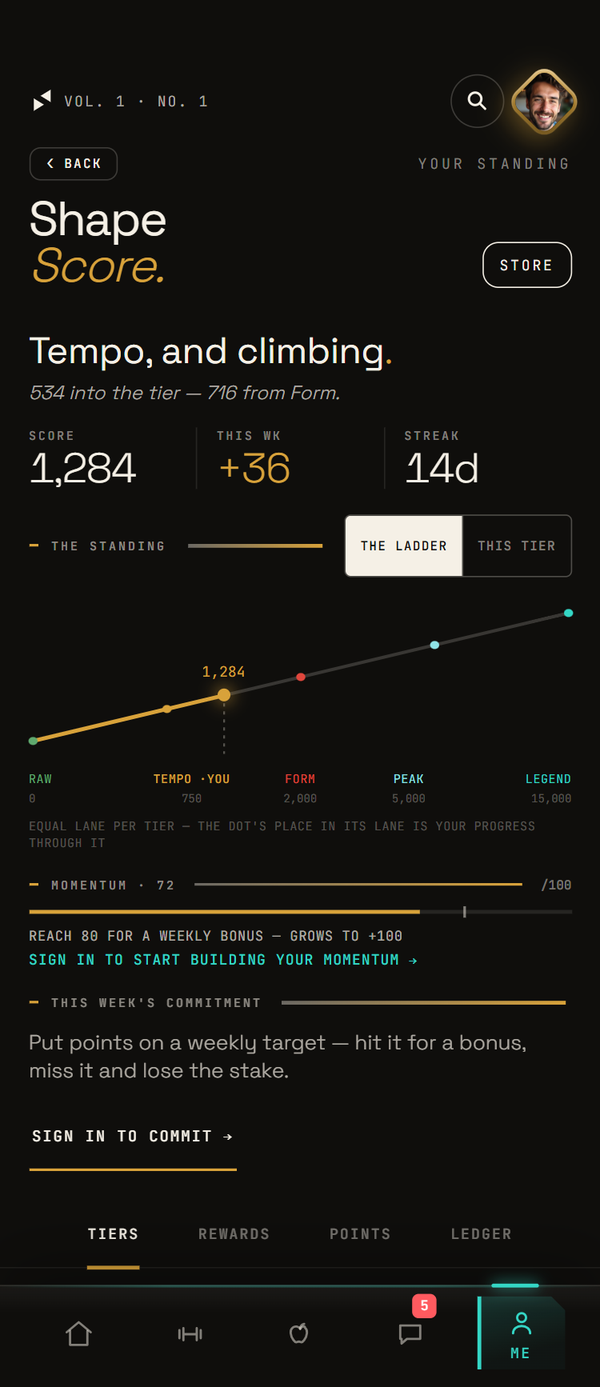
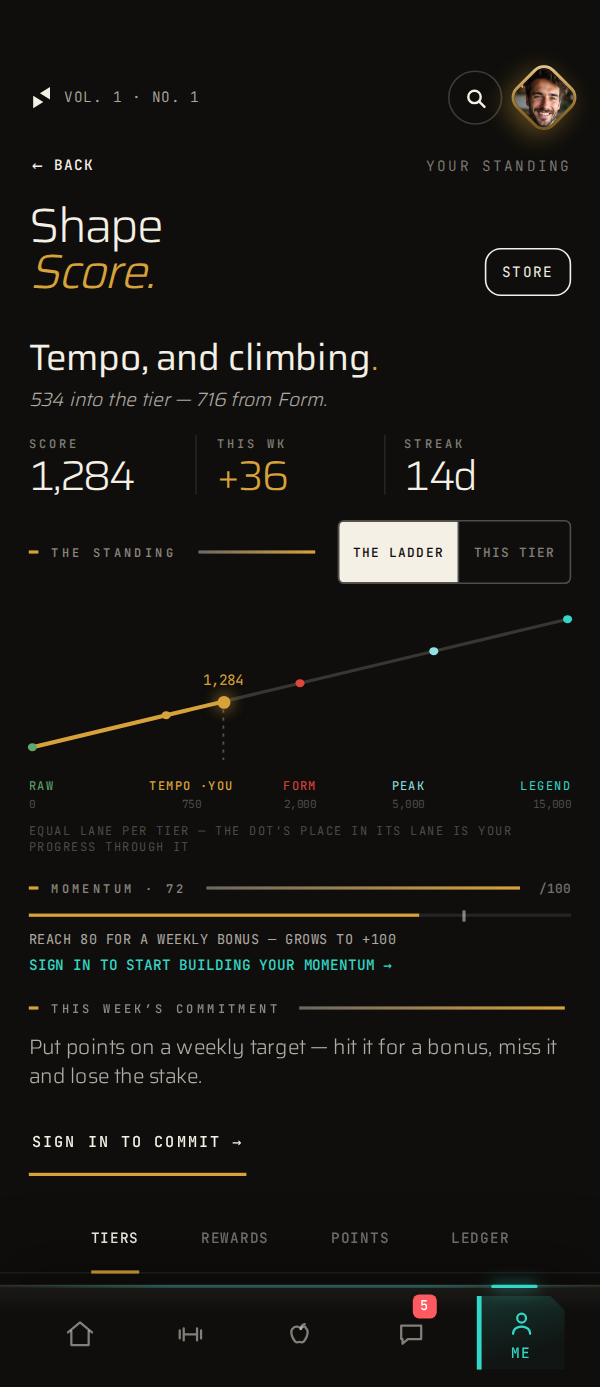
newdesign: refresh the nine app screenshots to the app as built today
The screens the website shows for the app were captured on 2026-07-10/15.
Since then the app shipped the Home masthead dateline, the feed's online
rail Hide control and typed-reaction bar, the profile's cover photo and
"training for" line, the grocery list's collapsed aisles and action bar,
and a sign-in-gated radio that reads paused for a visitor. All nine files
are replaced with captures of the current build (same filenames, same
600x1387, ?v=20260910 in index.html and GetApp.html), taken in the
signed-out preview with the clock pinned to a Friday so the example
member is on a strength day like the existing images.

Docs: the review gains the screen-by-screen diff and method, the
Feed/Wall/Team explanation, and the WORKLOG entry for the refresh.

Claude-Session: https://claude.ai/code/session_01Kg4bHnhM6uNHwv4cmM2cej

diff --git a/public/newdesign/GetApp.html b/public/newdesign/GetApp.html
@@ -291,15 +291,15 @@
 <script>
 (function () {
   var STEPS = [
-    { kind: "HOME",     title: "Today, at a glance.",         body: "The Shape Daily — calendar, calorie ledger, what's left to log, who's on the air. Skim it in five seconds, dive in if you want.", img: "/newdesign/getapp-home-v5.png?v=20260715", dark: true },
-    { kind: "TRAIN",    title: "Know what's coming.",          body: "Every move, set, and cue from your trainer — before you walk into the gym. Tap a move for video, note warmups, mark a substitute. No coach yet? Build your own week — starter templates and custom programs, coach optional.", img: "/newdesign/getapp-train-v3.png?v=20260710", dark: false },
-    { kind: "EAT",      title: "Macros, tallied live.",        body: "Daily meal plans from your nutritionist. The day's deficit (or surplus) ticks as you log. Swaps for travel days built in.", img: "/newdesign/getapp-nutri-v3.png?v=20260710", dark: false },
-    { kind: "GROCERY",  title: "List that builds itself.",     body: "Organized by aisle with a live running cost. Coach swaps land inline. One tap to send the whole list to Instacart.", img: "/newdesign/getapp-grocery-v2.png?v=20260710", dark: false },
-    { kind: "HABITS",   title: "Small things, tracked.",       body: "Tap to log. Earn Shape Score for every check. Pick friends to be notified when you miss — accountability without the guilt trip.", img: "/newdesign/getapp-habits-v1.png?v=20260710", dark: true },
-    { kind: "SCORE",    title: "One number that matters.",     body: "A five-tier ladder rewarding consistency across training, nutrition, and recovery. It only moves when you show up.", img: "/newdesign/getapp-score-v3.png?v=20260710", dark: true },
-    { kind: "PROFILE",  title: "A profile that's alive.",      body: "Your climb, your Shape Score, PRs and playlists — a living page that grows as you do. Make it public or keep it private; it's yours.", img: "/newdesign/getapp-profile-v2.png?v=20260710", dark: true },
-    { kind: "RADIO",    title: "Music built for movement.",    body: "Live mixes curated by your coach. Each track's BPM syncs with your wearable — when the two lock in, your pace becomes the song.", img: "/newdesign/getapp-radio-v3.png?v=20260710", dark: true },
-    { kind: "COMMUNITY", title: "The social side of strong.",   body: "See who's training now, cheer a friend's PR, and post your own. A live feed, member channels, and coach co-signs turn solo workouts into a community — the energy of a gym floor, wherever you train.", img: "/newdesign/getapp-community-v2.png?v=20260710", dark: false }
+    { kind: "HOME",     title: "Today, at a glance.",         body: "The Shape Daily — calendar, calorie ledger, what's left to log, who's on the air. Skim it in five seconds, dive in if you want.", img: "/newdesign/getapp-home-v5.png?v=20260910", dark: true },
+    { kind: "TRAIN",    title: "Know what's coming.",          body: "Every move, set, and cue from your trainer — before you walk into the gym. Tap a move for video, note warmups, mark a substitute. No coach yet? Build your own week — starter templates and custom programs, coach optional.", img: "/newdesign/getapp-train-v3.png?v=20260910", dark: false },
+    { kind: "EAT",      title: "Macros, tallied live.",        body: "Daily meal plans from your nutritionist. The day's deficit (or surplus) ticks as you log. Swaps for travel days built in.", img: "/newdesign/getapp-nutri-v3.png?v=20260910", dark: false },
+    { kind: "GROCERY",  title: "List that builds itself.",     body: "Organized by aisle with a live running cost. Coach swaps land inline. One tap to send the whole list to Instacart.", img: "/newdesign/getapp-grocery-v2.png?v=20260910", dark: false },
+    { kind: "HABITS",   title: "Small things, tracked.",       body: "Tap to log. Earn Shape Score for every check. Pick friends to be notified when you miss — accountability without the guilt trip.", img: "/newdesign/getapp-habits-v1.png?v=20260910", dark: true },
+    { kind: "SCORE",    title: "One number that matters.",     body: "A five-tier ladder rewarding consistency across training, nutrition, and recovery. It only moves when you show up.", img: "/newdesign/getapp-score-v3.png?v=20260910", dark: true },
+    { kind: "PROFILE",  title: "A profile that's alive.",      body: "Your climb, your Shape Score, PRs and playlists — a living page that grows as you do. Make it public or keep it private; it's yours.", img: "/newdesign/getapp-profile-v2.png?v=20260910", dark: true },
+    { kind: "RADIO",    title: "Music built for movement.",    body: "Live mixes curated by your coach. Each track's BPM syncs with your wearable — when the two lock in, your pace becomes the song.", img: "/newdesign/getapp-radio-v3.png?v=20260910", dark: true },
+    { kind: "COMMUNITY", title: "The social side of strong.",   body: "See who's training now, cheer a friend's PR, and post your own. A live feed, member channels, and coach co-signs turn solo workouts into a community — the energy of a gym floor, wherever you train.", img: "/newdesign/getapp-community-v2.png?v=20260910", dark: false }
   ];
 
   var i = 0;

diff --git a/public/newdesign/index.html b/public/newdesign/index.html
@@ -775,23 +775,23 @@
   <div class="stage">
     <div class="beat" data-i="0">
       <div><div class="ix">01 — Train</div><h2>Written <b>before</b> you arrive.</h2><p>Every set, tempo and cue from your trainer — loaded the night before. No deciding at the rack, no guesswork. No coach yet? Build your own week — starter templates and custom programs, coach optional.</p></div>
-      <div class="vis dark"><div class="scr"><img class="on" src="/newdesign/getapp-train-v3.png?v=20260710" alt="" /></div></div>
+      <div class="vis dark"><div class="scr"><img class="on" src="/newdesign/getapp-train-v3.png?v=20260910" alt="" /></div></div>
     </div>
     <div class="beat" data-i="1">
       <div><div class="ix">02 — Eat</div><h2>The ledger <b>ticks live.</b></h2><p>Macro plans from your nutritionist. Today's deficit moves as you log. Travel and rest-day swaps already built in.</p></div>
-      <div class="vis dark"><div class="scr"><img class="on" src="/newdesign/getapp-nutri-v3.png?v=20260710" alt="" /></div></div>
+      <div class="vis dark"><div class="scr"><img class="on" src="/newdesign/getapp-nutri-v3.png?v=20260910" alt="" /></div></div>
     </div>
     <div class="beat" data-i="2">
       <div><div class="ix">03 — Recover</div><h2>One number that <b>tells the truth.</b></h2><p>Sleep, stress and Shape Score read every week. Your coach adjusts before you stall — not after.</p></div>
-      <div class="vis dark"><div class="scr"><img class="on" src="/newdesign/getapp-score-v3.png?v=20260710" alt="" /></div></div>
+      <div class="vis dark"><div class="scr"><img class="on" src="/newdesign/getapp-score-v3.png?v=20260910" alt="" /></div></div>
     </div>
     <div class="beat" data-i="3">
       <div><div class="ix">04 — Community</div><h2>The social side of <b>strong.</b></h2><p>See who's training now, cheer a friend's PR, and post your own. A live feed, member channels, and coach co-signs — the energy of a gym floor, wherever you train.</p></div>
-      <div class="vis dark"><div class="scr"><img class="on" src="/newdesign/getapp-community-v2.png?v=20260710" alt="" /></div></div>
+      <div class="vis dark"><div class="scr"><img class="on" src="/newdesign/getapp-community-v2.png?v=20260910" alt="" /></div></div>
     </div>
     <div class="beat" data-i="4">
       <div><div class="ix">05 — Profile</div><h2>A profile that <b>climbs with you.</b></h2><p>Your public page is alive — your climb, your Shape Score, your PRs and playlists. Share it, or keep it private. It's yours.</p></div>
-      <div class="vis dark"><div class="scr"><img class="on" src="/newdesign/getapp-profile-v2.png?v=20260710" alt="" /></div></div>
+      <div class="vis dark"><div class="scr"><img class="on" src="/newdesign/getapp-profile-v2.png?v=20260910" alt="" /></div></div>
     </div>
   </div>
 </div></section>

diff --git a/docs/REVIEW-2026-09-10-index-page.md b/docs/REVIEW-2026-09-10-index-page.md
@@ -389,7 +389,60 @@ preview shows sample plates labelled demo, as the app already does elsewhere. **
 two PRs; no new data is collected. **Order:** the migration and public read first (it also
 serves the homepage), then the segment and the Home card, then the coach Stamp.
 
-## 8. Method notes, limits, renders
+**Feed, Wall, Team: what each one is** (owner: *"what is the difference between wall and feed
+on the app?"* · *"and what about the chat feature for clients, trainers, and nutritionists"*).
+Read from the built app in its signed-out preview, not from memory:
+
+| Surface | Where | What it is | Who talks |
+|---|---|---|---|
+| **Feed** | Chat → Feed | Everything members post, newest first: PRs, long runs, swims, rest days, meals, check-ins, with typed reactions (Beast, Respect, Gliding, Spot), comments and coach co-signs. Filters: Universal / Following, and Shape / Client / Community. The online-now rail sits above it. | everyone public, plus who you follow |
+| **Wall** (proposed) | Chat → Wall | Only records: every public member's new best, from the structured PR ledger, as plates with the number, the delta over their last best, the coach's stamp, reactions; filter by lift; your own best pinned. A board, not a conversation. Today those records exist only as feed posts and as messages in the PR Wall channel. | nobody; you cheer and coaches stamp |
+| **Team** | Chat → Team | The 1:1 threads: **Coaches** (your trainer, your nutritionist, an endurance coach in the demo) and **Friends**, with unread badges. This is the client ↔ trainer / nutritionist chat. Coaches get the mirror of it in their own apps (the same `BSChatThread` code), and a nutritionist also receives a client's meal-log note, photo and voice memo as a message. | you and your coaches, you and friends |
+| **Channels** | Chat → Channels | Group rooms: #Shape HQ, #PR Wall, #strength-block-3, #Sunday Run Club, #Macro Mondays. #PR Wall is the system channel the PR RPC posts into; a Wall surface would read the ledger instead and could retire the channel or leave it as the chat about PRs. | members of the room |
+| **Support** | Chat → Support | The support thread. | you and Shape |
+
+So the Wall does not replace the Feed or the Team threads. The Feed is the conversation, the
+Team tab is the coach chat, the Wall is the record board. The one duplication to decide is
+the PR Wall channel: keep it as the room where people talk about PRs, or fold it into the
+Wall once the Wall ships.
+
+## 8. The app screens on the website, refreshed
+
+Owner: *"make sure the app screens that are showing on website are matching what is actually
+live on the app currently."* Two sets were checked: the nine PNGs the live site shows (five
+in `index.html`'s loop, nine in `GetApp.html`, all captured 2026-07-10/15), and the phones on
+the concept board, which were stylised mock-ups I drew.
+
+**Method.** The current app built from `main` (`VITE_BASE=/m/ npm run build`), served locally
+and driven with Playwright at 375×867 at 1.6× (the site's 600×1387), in the signed-out
+preview (language → paywall → *Preview the app first* → *Step inside*, the demo banner
+dismissed), with the `is-native-app` class so the desktop bezel does not render, the clock
+pinned to **Friday 2026-09-11 09:30 New York** so the example member is on a strength day
+like the existing images, and `/api/radio/now-playing` answering what production answers.
+Fourteen screens captured; each compared side by side with the file the site shows.
+
+**What was stale on the site, now replaced (same filenames, `?v=20260910`):**
+
+| Screen | File | What had changed in the app |
+|---|---|---|
+| Home | `getapp-home-v5.png` | the masthead dateline (*Clients edition · Thu · Sep 10 · Cut W37 · clock*, shipped 2026-09-01) and the ticker's macro line; the radio card's muted state |
+| Community | `getapp-community-v2.png` | *Universal / Following* moved into the title row; the online rail's **Hide ×**; an *All* filter; the typed-reaction bar (Beast · 41, comments, share, send) |
+| Profile | `getapp-profile-v2.png` | the *Training for · first half-marathon · 74 days out* line, the member's quote, and the **cover photo** behind the ascent (2026-08-31) |
+| Grocery | `getapp-grocery-v2.png` | aisles collapsed by default with counts, *Prep the week*, and the *Send to Instacart · Save to library · Share* bar |
+| Radio | `getapp-radio-v3.png` | the signed-out state is paused with no track (playback is sign-in gated); the old image showed a playing state |
+| Train, Eat, Score, Habits | `getapp-train-v3` · `getapp-nutri-v3` · `getapp-score-v3` · `getapp-habits-v1` | layout unchanged; the day's content differs (week 23 of the block, the Friday session, *The menu.*), so they are refreshed for consistency |
+
+**On the board:** A's phone now cycles three real screens (Eat, the live session player, the
+feed's PR post) and the three moment cards on every concept are windows onto the real
+captures with the live element ringed, labelled *the app today*; the Wall preview's chrome is
+the app's actual Chat chrome (title row, online rail, the Feed · Team · Channels pills).
+Everything else on the board that looks like the app is a proposed widget, not a screen.
+
+**Not changed:** the nine other `getapp-*` files no page references (`chat-v2/v3`, `eat-v2`,
+`home-v2/v4`, `home-mobile-light-v5`, `personalize-v2`, `recipes-v2`, `workout-v2`) are dead
+assets; deleting them is a separate tidy.
+
+## 9. Method notes, limits, renders
 
 - **Second revision.** Nine typefaces installed from `@fontsource` and rendered as a specimen
   sheet with the real glyphs (a zoomed pass on the dot-matrix candidates settled Doto over

diff --git a/docs/WORKLOG.md b/docs/WORKLOG.md
@@ -490,6 +490,44 @@ several are marked SHIPPED in their own text.
 [early-June, Cycles 2–5](WORKLOG-ARCHIVE-2026-06-cycles-2-5.md).
 Append new entries at the top, under this note.
 
+### 2026-09-10 — The website's app screenshots refreshed to the app as built today; the board's phones show real screens
+
+- **Owner: *"make sure the app screens that are showing on website are matching what is actually
+  live on the app currently."*** They did not. The nine `getapp-*.png` files the site shows
+  (five in `index.html`'s loop, nine in `GetApp.html`) were captured on 2026-07-10/15; the app
+  has since shipped the Home masthead dateline (09-01), the feed's online-rail **Hide ×** and
+  typed-reaction bar, the profile's cover photo and *training for* line (08-31), the grocery
+  list's collapsed aisles and action bar, and a sign-in-gated radio that reads paused with no
+  track for a visitor. **All nine replaced, same filenames, `?v=20260910`** in both pages.
+- **Method, so it can be repeated:** the app built from `main` and served locally; Playwright
+  at 375×867 at 1.6× (= the site's 600×1387) in the signed-out preview (language → paywall →
+  *Preview the app first* → *Step inside*, the demo banner dismissed); the `is-native-app` class
+  so no desktop bezel renders; the clock **pinned to Friday 2026-09-11 09:30 New York** so the
+  example member is on a strength day like the existing images; `/api/radio/now-playing`
+  fulfilled with what production answers. Fourteen screens captured and compared side by side
+  with the files on the site; the six that differed are in the review's §8.
+- ⚠ **THE BOARD'S PHONES WERE MY DRAWINGS, AND NOW THEY ARE NOT.** Concept A's phone cycles
+  three real screens (Eat, the live session player, the feed's PR post) and the moment cards on
+  every concept are windows onto the real captures with the live element ringed, labelled
+  *the app today*. The Wall preview keeps its proposed content but takes the app's actual Chat
+  chrome. A preview of "the app" built from invented UI is the demo-data class one step
+  removed; the owner caught it.
+- **Also answered, in the review's §7:** Feed vs Wall vs Team, read from the built app — the
+  Feed is everything members post with typed reactions and co-signs; Team is the 1:1 coach
+  and friend threads (the client ↔ trainer / nutritionist chat, mirrored in the coach apps,
+  with meal-log notes, photos and voice memos arriving as messages); Channels are the rooms,
+  #PR Wall among them; the proposed Wall is the record board. The one duplication to rule on
+  is whether #PR Wall stays as the room about PRs once the Wall ships.
+- **And three board changes on owner notes the same afternoon:** thinner display weights
+  (Anybody 500/600, the Wall at 400), the original logo artwork restored wherever the concepts
+  show it (the nav and footer use the real `shape-logo-nav-*.png` files; the Radio wordmark is
+  built the way the live site builds it), and E's climb redrawn as a **monotone rising score
+  line** to the summit with a soft fill beneath it — the ridge silhouette it followed before
+  went down as well as up, which a climb must not.
+- Verified: nine PNGs at 600×1387 (`stat`), refs bumped in both pages, no other page references
+  the files; the board rebuilt, each changed tab captured once; the pre-commit gate on the HTML
+  change (`npm test`, the newdesign precompile check) below.
+
 ### 2026-09-10 — Homepage review: "less analog, more alive", with a live concept board
 
 - **Records only — a review, not a build.** Owner: *"full review of new design index page …
